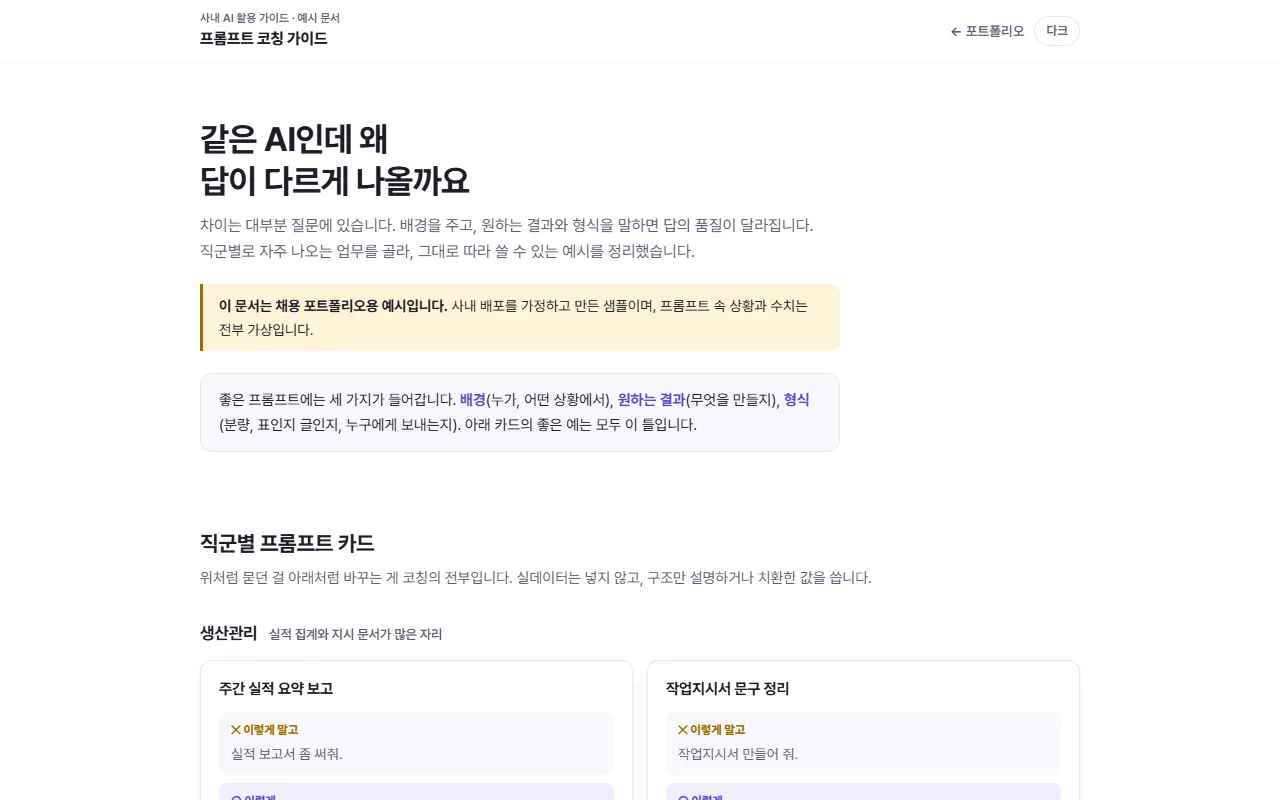
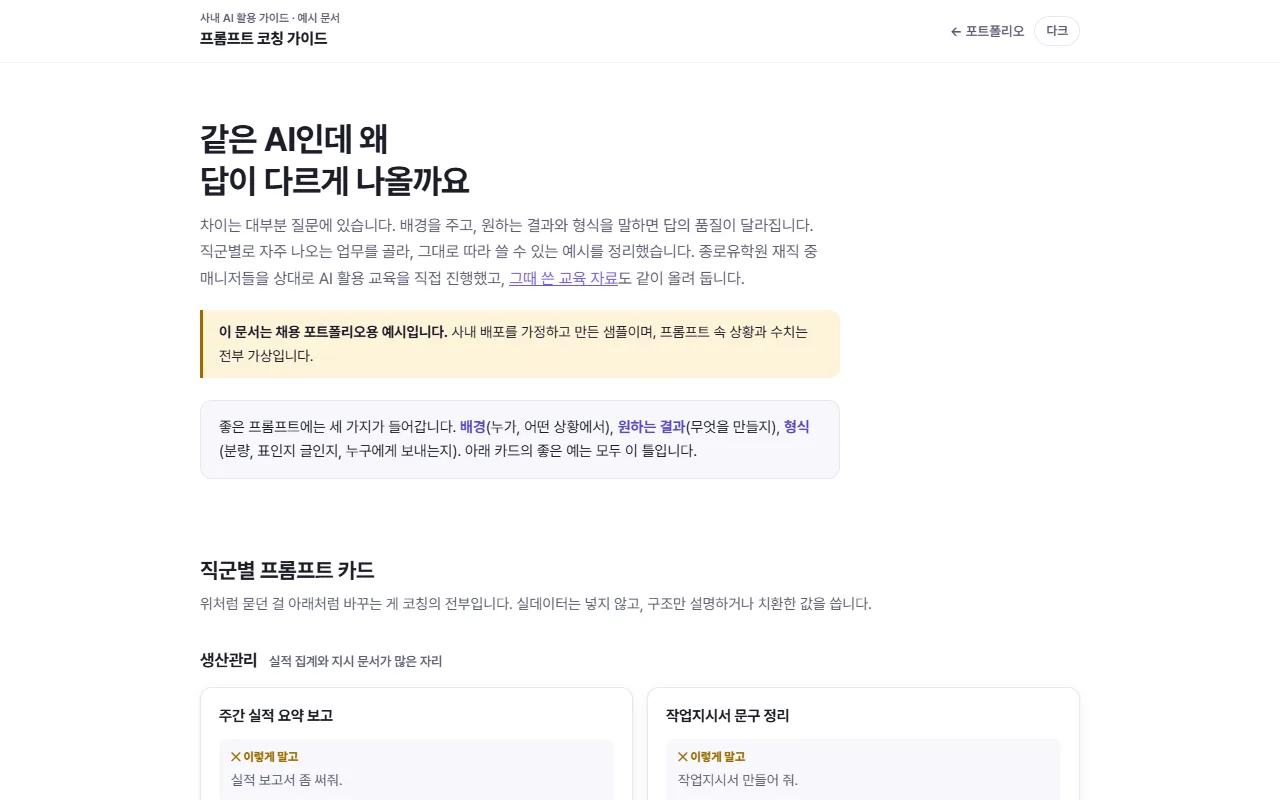
add in-house AI training experience (Chongro slides) to landing and prompt guide

Changed region(s): [[0.1562, 0.2812, 0.6562, 0.5938], [0.1562, 0.6562, 0.6875, 1.0], [0.5, 0.8438, 0.625, 1.0]]

diff --git a/index.html b/index.html
@@ -469,6 +469,7 @@ footer { border-top: 1px solid var(--line); padding: 30px 0 52px; font-size: 0.8
     <h1 data-en="AI Enablement · Prompt Coaching · AI Feature Building">사내 AI 활용 지원 · 프롬프트 코칭 · AI 기능 제작</h1>
     <p class="thesis" data-en="I help non-developers put AI to work, and when a team needs a tool, I build and deploy it myself.">비개발 직원이 AI를 실무에 쓰도록 돕고, 현업에 필요한 기능은 직접 만들어 배포까지 완주합니다.</p>
     <div class="kw">
+      <span data-en="Ran in-house AI training">사내 AI 활용 교육 진행</span>
       <span data-en="5 sites shipped">사이트 5종 배포 완주</span>
       <span data-en="~20 custom skills in operation">커스텀 스킬 약 20종 운영</span>
       <span data-en="~2 hours saved per blog post">블로그 편당 약 2시간 절감</span>
@@ -491,7 +492,7 @@ footer { border-top: 1px solid var(--line); padding: 30px 0 52px; font-size: 0.8
     <div class="map-grid">
       <a href="prompt-guide/">
         <b data-en="① In-house AI support &amp; prompt coaching">① 사내 AI 지원·프롬프트 코칭</b>
-        <small data-en="Per-role prompt guide + security rules">직군별 프롬프트 가이드 + 보안 수칙</small>
+        <small data-en="Ran real in-house training + per-role guide">사내 교육 진행 경험 + 직군별 가이드</small>
         <span class="arrow" data-en="Guide →">가이드 →</span>
       </a>
       <a href="report-demo/">
@@ -588,6 +589,12 @@ footer { border-top: 1px solid var(--line); padding: 30px 0 52px; font-size: 0.8
     <h2 data-en="Real Artifacts">실물 산출물</h2>
     <p class="sec-cap" data-en="Deliverables and work logs from the job.">실무에서 실제로 쓰던 시스템과 작업 기록입니다.</p>
     <div class="art-row">
+      <figure>
+        <a href="https://docs.google.com/presentation/d/1kzb4b0lfqMNHAcFV7pqb5UtSAmpLjGAg9_O7tzLY-6s/preview" target="_blank" rel="noopener">
+          <img src="assets/art-training.webp" alt="종로유학원 매니저 대상 AI 활용 교육 자료 표지" loading="lazy">
+        </a>
+        <figcaption data-en="Slides from an in-house AI training I ran for consultants <span class='hint'>· open ↗</span>">직원 대상 AI 활용 교육을 직접 진행한 자료 <span class="hint">· 열어 보기 ↗</span></figcaption>
+      </figure>
       <figure>
         <button class="zoom" type="button" aria-label="사진 크게 보기">
           <img src="assets/art-ot.webp" alt="출국 전 오리엔테이션 진행 모습" loading="lazy">

diff --git a/prompt-guide/index.html b/prompt-guide/index.html
@@ -146,7 +146,7 @@ footer { border-top: 1px solid var(--line); padding: 24px 0 46px; font-size: 0.8
 <section class="hero">
   <div class="wrap">
     <h1>같은 AI인데 왜<br>답이 다르게 나올까요</h1>
-    <p class="thesis">차이는 대부분 질문에 있습니다. 배경을 주고, 원하는 결과와 형식을 말하면 답의 품질이 달라집니다. 직군별로 자주 나오는 업무를 골라, 그대로 따라 쓸 수 있는 예시를 정리했습니다.</p>
+    <p class="thesis">차이는 대부분 질문에 있습니다. 배경을 주고, 원하는 결과와 형식을 말하면 답의 품질이 달라집니다. 직군별로 자주 나오는 업무를 골라, 그대로 따라 쓸 수 있는 예시를 정리했습니다. 종로유학원 재직 중 매니저들을 상대로 AI 활용 교육을 직접 진행했고, <a href="https://docs.google.com/presentation/d/1kzb4b0lfqMNHAcFV7pqb5UtSAmpLjGAg9_O7tzLY-6s/preview" target="_blank" rel="noopener">그때 쓴 교육 자료</a>도 같이 올려 둡니다.</p>
     <p class="notice"><b>이 문서는 채용 포트폴리오용 예시입니다.</b> 사내 배포를 가정하고 만든 샘플이며, 프롬프트 속 상황과 수치는 전부 가상입니다.</p>
     <p class="basics">좋은 프롬프트에는 세 가지가 들어갑니다. <b>배경</b>(누가, 어떤 상황에서), <b>원하는 결과</b>(무엇을 만들지), <b>형식</b>(분량, 표인지 글인지, 누구에게 보내는지). 아래 카드의 좋은 예는 모두 이 틀입니다.</p>
   </div>
@@ -228,7 +228,7 @@ footer { border-top: 1px solid var(--line); padding: 24px 0 46px; font-size: 0.8
 <section class="sec" id="security">
   <div class="wrap">
     <h2>보안 수칙: 쓰되, 새지 않게</h2>
-    <p class="sec-cap">AI를 넓게 쓰자는 가이드일수록 새면 안 되는 정보의 경계를 같이 그어야 합니다. 아래는 그 경계의 예시 버전입니다.</p>
+    <p class="sec-cap">AI를 넓게 쓰자는 가이드일수록 새면 안 되는 정보의 경계를 같이 그어야 합니다. 실제 사내 교육 때도 마지막 장은 개인정보 가명 처리, 팩트 체크, 내부 자료 업로드 금지였습니다. 아래는 그 경계의 예시 버전입니다.</p>
     <div class="cols">
       <div>
         <h4>외부 AI에 넣지 않는 것</h4>
